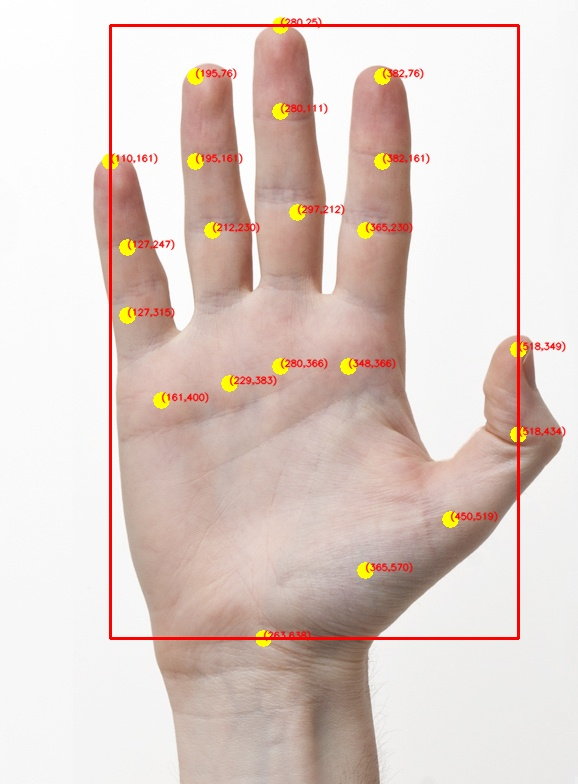
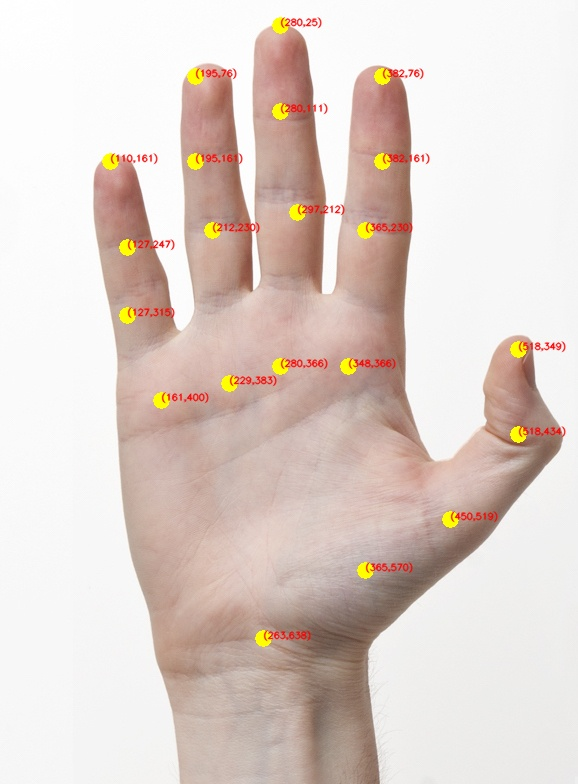
Changes to inference file

Changed region(s): [[0.1869, 0.0306, 0.9031, 0.8265]]

diff --git a/handPoseImage.py b/handPoseImage.py
@@ -63,18 +63,18 @@ for pair in POSE_PAIRS:
 # Rect_height = (ymax-ymin)
 # Rect_width = (xmax - xmin)
 
-points = np.asarray(points)
-xmin=points[:,0].min()
-xmax=points[:,0].max()
-ymin=points[:,1].min()
-ymax=points[:,1].max()
+# points = np.asarray(points)
+# xmin=points[:,0].min()
+# xmax=points[:,0].max()
+# ymin=points[:,1].min()
+# ymax=points[:,1].max()
 
-print('xmin,ymin : ({},{})'.format(xmin,ymin))
-print('xmax,ymax : ({},{})'.format(xmax,ymax))
+# print('xmin,ymin : ({},{})'.format(xmin,ymin))
+# print('xmax,ymax : ({},{})'.format(xmax,ymax))
 
 
-rect=cv2.rectangle(frameCopy, (xmin, ymin),(xmax,ymax),(0,0,255),2)
-cv2.imshow("Rectangle",rect)
+# rect=cv2.rectangle(frameCopy, (xmin, ymin),(xmax,ymax),(0,0,255),2)
+# cv2.imshow("Rectangle",rect)
 cv2.imshow('Output-Keypoints', frameCopy)
 cv2.imshow('Output-Skeleton', frame)
 
